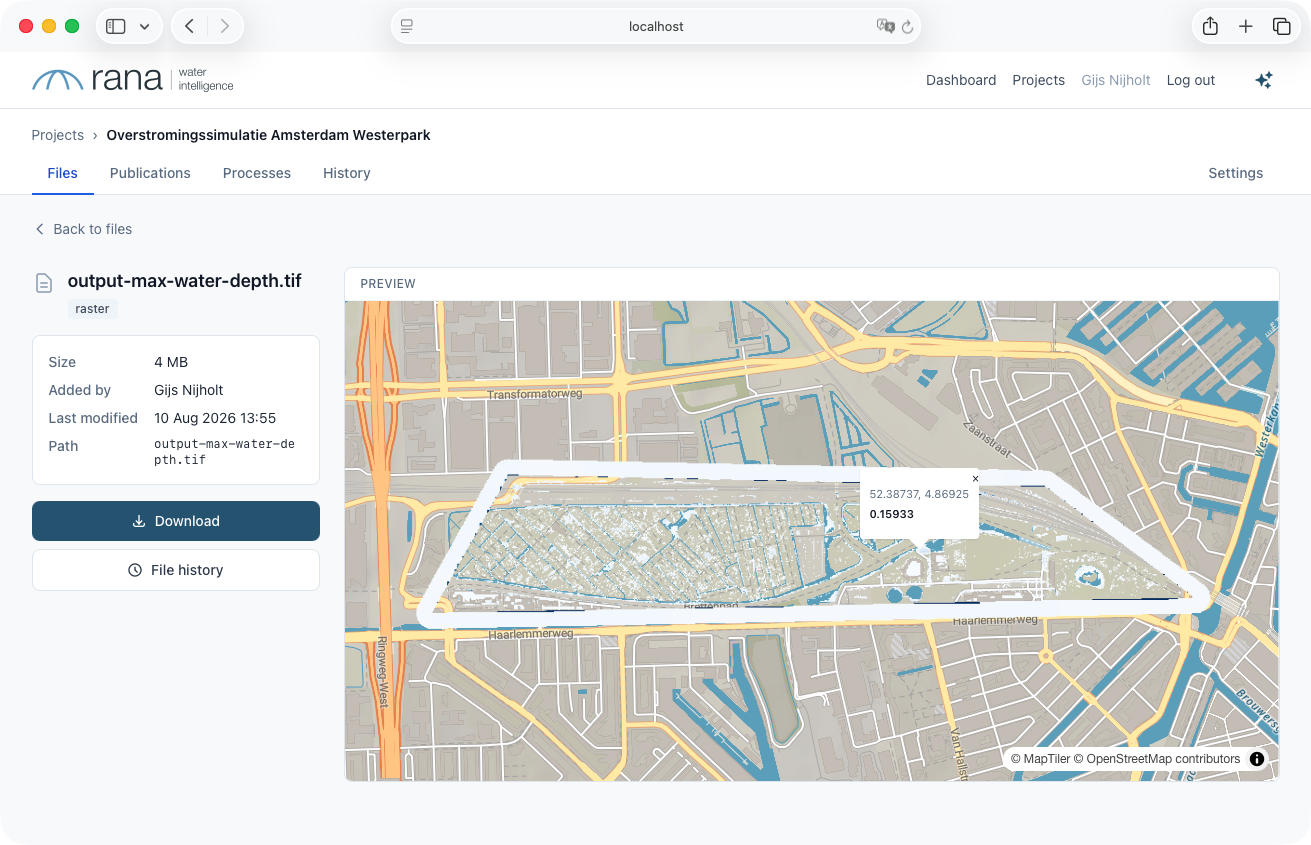
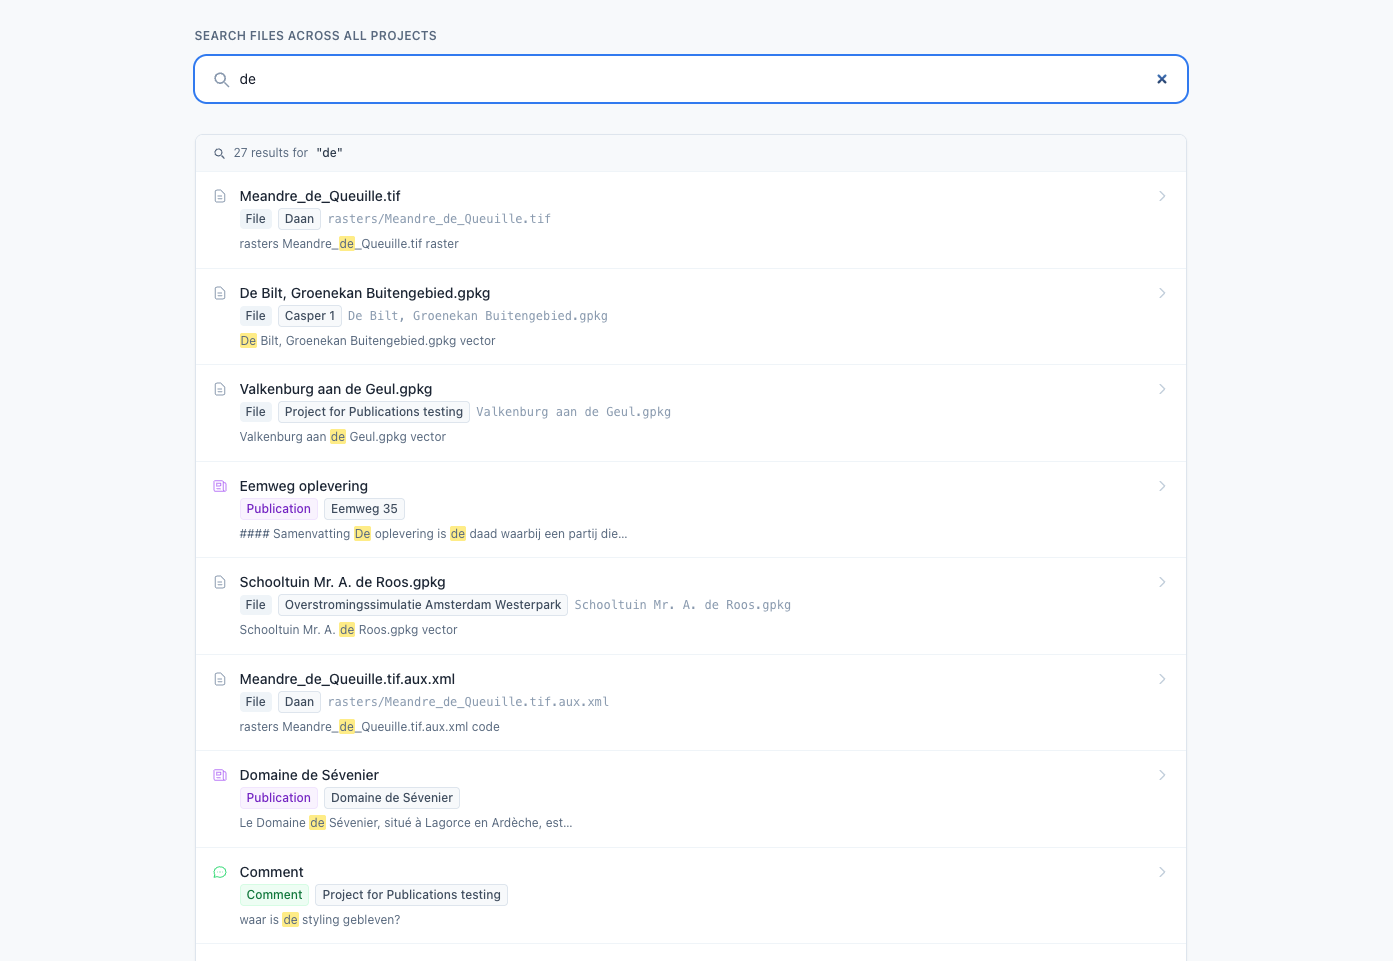
fix highlighting

diff --git a/content/search-without-a-search-service/index.md b/content/search-without-a-search-service/index.md
@@ -21,7 +21,7 @@ That's it.
 ## The Crawl
 The Django management command (`crawl_search_index`) is the workhorse. It is run with a tenant ID and a bearer token:
 
-```
+```bash
 python manage.py crawl_search_index --tenant nenstest
 ```
 
@@ -33,7 +33,7 @@ Alongside files, it crawls publications, processing jobs, and publication commen
 
 The result for a medium-sized tenant crawl looks something like:
 
-```
+```text
 === Tenant: nenstest ===
   12 project(s)
   → processes … 47 processes, 1.2s
@@ -49,7 +49,7 @@ Each tenant gets a single SQLite file at `var/search_index/{tenant_id}.db`.
 
 The schema is minimal by design:
 
-```
+```sql
 CREATE VIRTUAL TABLE search_index USING fts5(
     entity_type UNINDEXED,
     entity_id   UNINDEXED,
@@ -77,7 +77,7 @@ This keeps the index accurate across incremental runs without the cost or comple
 ## Querying
 The search function is four lines of SQL:
 
-```
+```sql
 SELECT
     entity_type, entity_id, project_id, branch, title,
     snippet(search_index, 5, '<mark>', '</mark>', '…', 10) AS excerpt,
